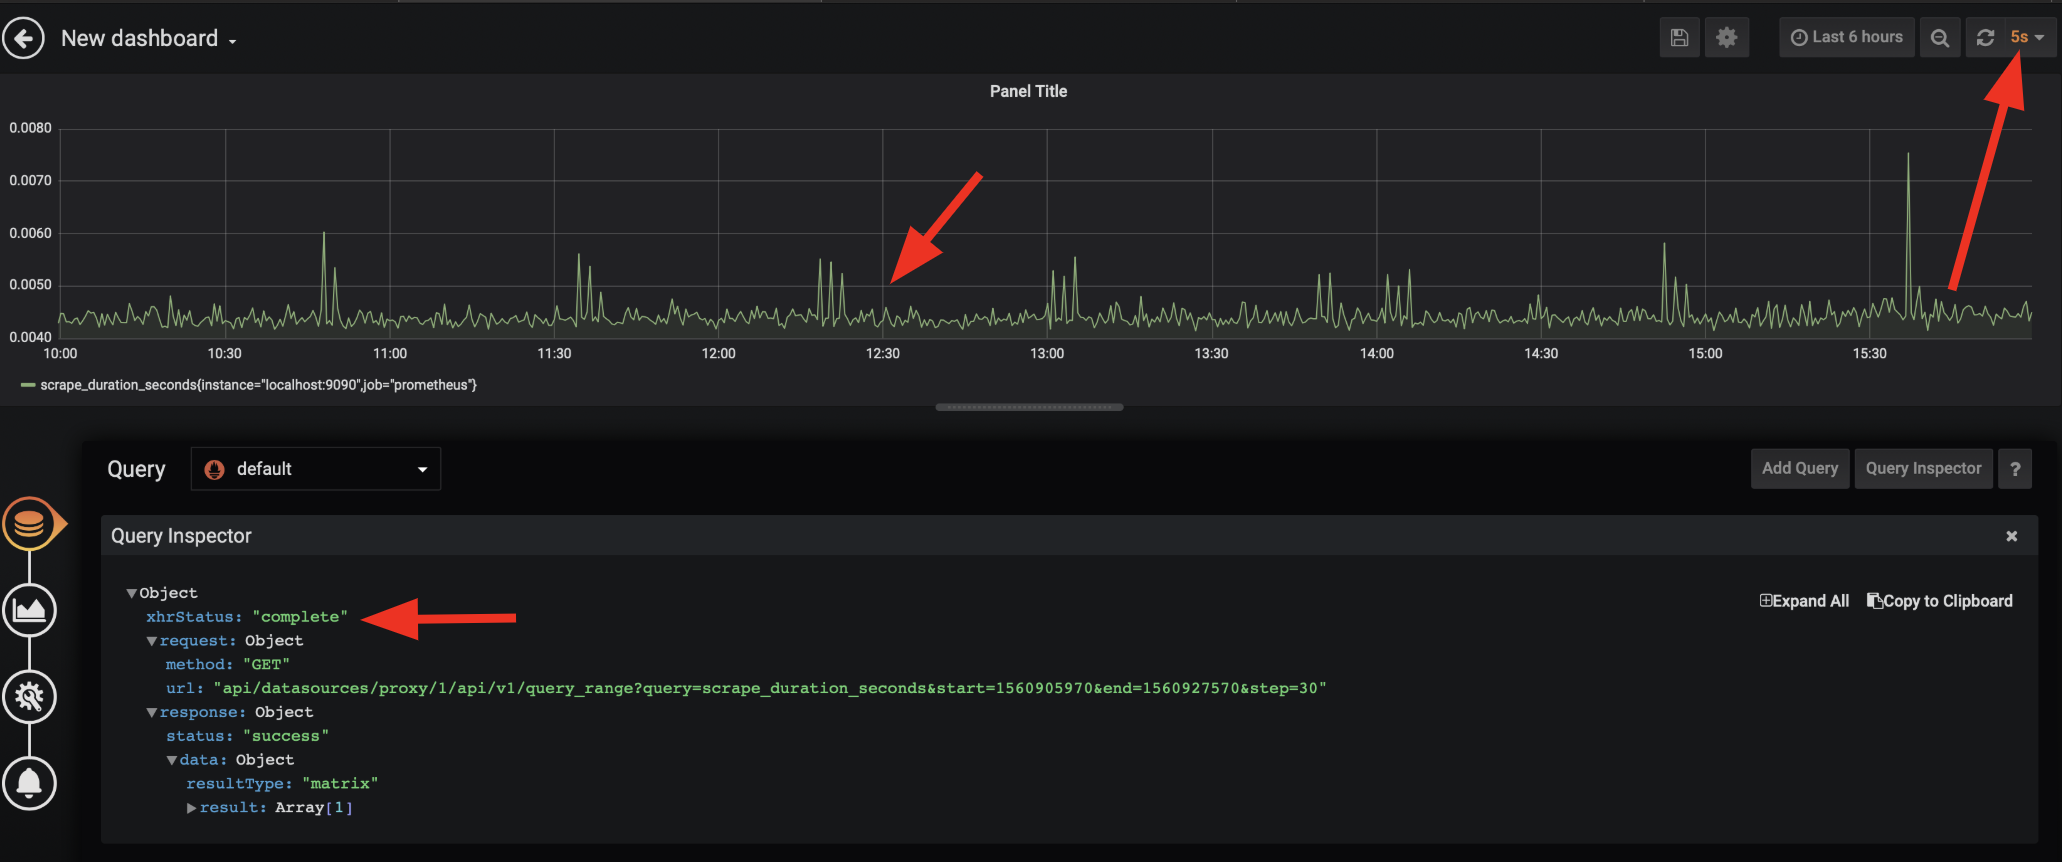
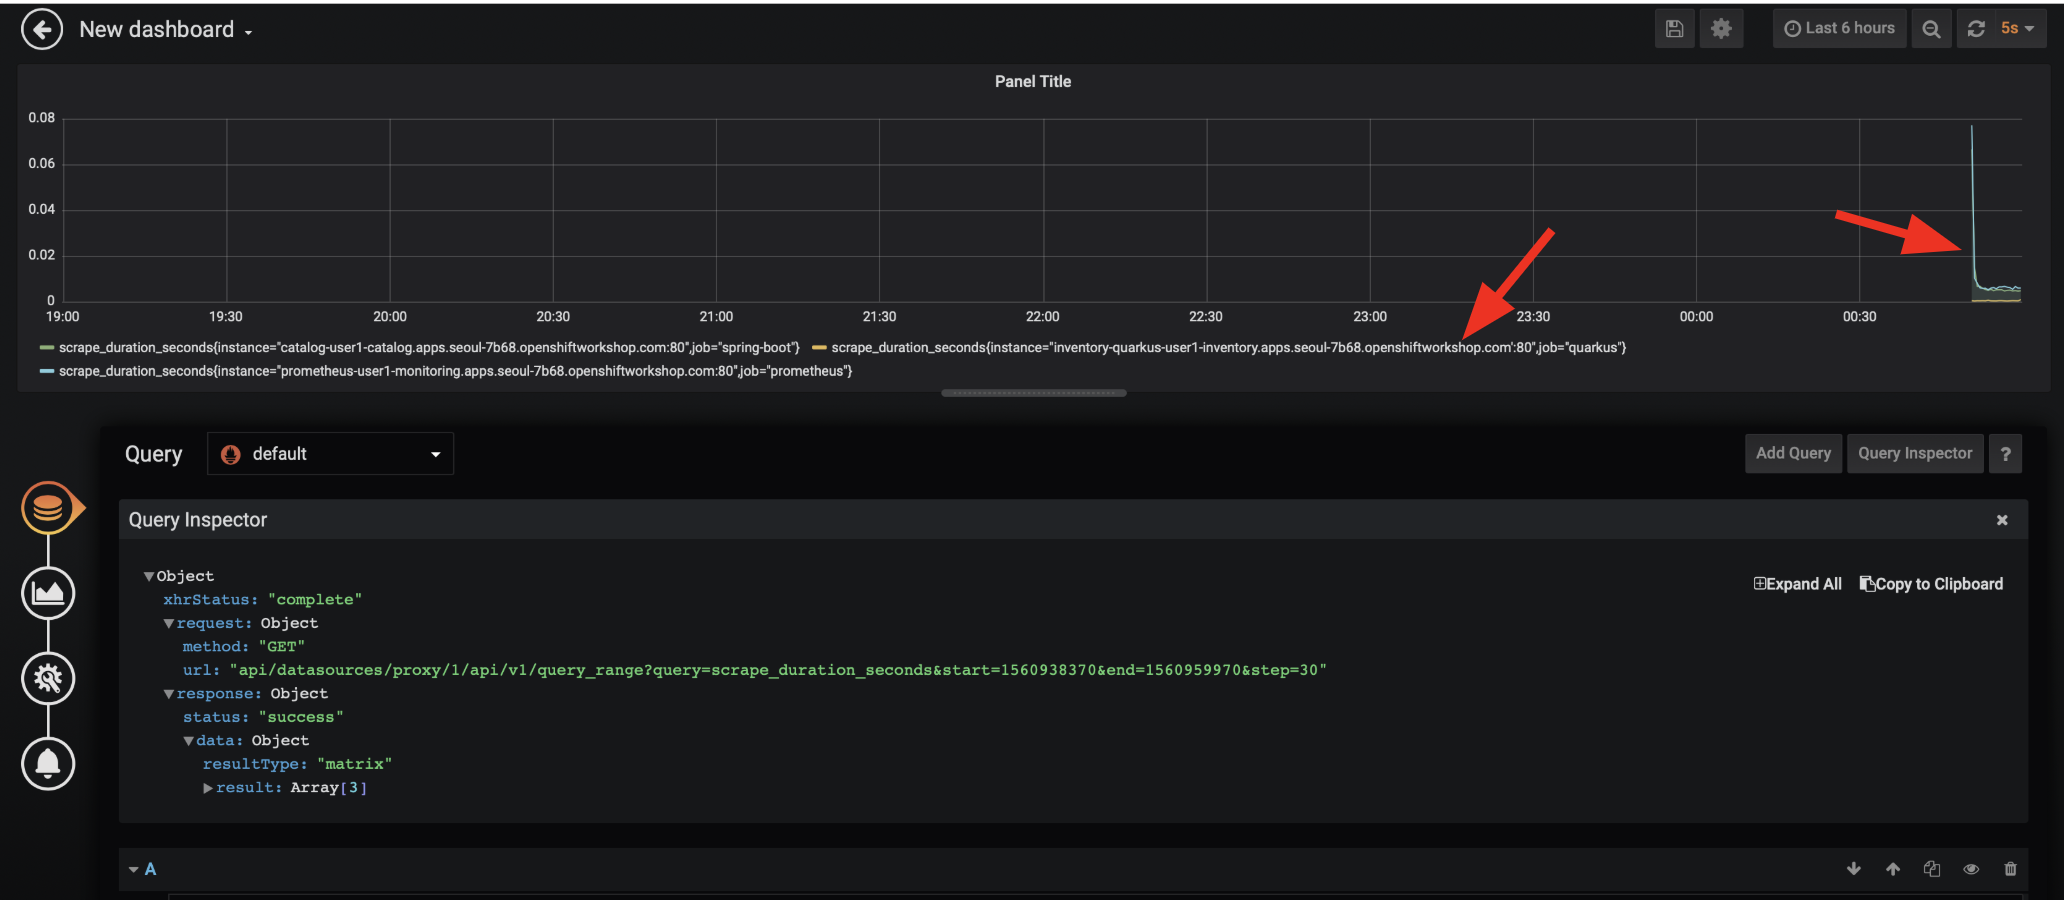
add springboot metrics

diff --git a/apps-monitoring.md b/apps-monitoring.md
@@ -347,11 +347,11 @@ Click on **Save & Test** then you will see the **Data source is working** messag
 
 ![Grafana]({% image_path granfan-setting.png %})
 
-###11. Utilize Metrics specification on Apps
+###11. Utilize metrics specification for Inverntory(Quarkus)
 
 ---
 
-In this lab, we will learn how **Inventory(Quarkus)** application can utilize the MicroProfile Metrics specification through the **SmallRye Metrics extension**.
+In this step, we will learn how **Inventory(Quarkus)** application can utilize the MicroProfile Metrics specification through the **SmallRye Metrics extension**.
 **MicroProfile Metrics** allows applications to gather various metrics and statistics that provide insights into what is happening inside the application.
 
 The metrics can be read remotely using JSON format or the **OpenMetrics** format, so that they can be processed by additional tools such as **Prometheus**, 
@@ -414,7 +414,6 @@ Repackage the inventory application via clicking on `Package for OpenShift` in `
 
 ![codeready-workspace-maven]({% image_path quarkus-dev-run-packageforOcp.png %})
 
-
 Or you can run a maven plugin command directly in **Terminal**:
 
 `mvn clean package -DskipTests`
@@ -431,15 +430,95 @@ Finally, make sure it's actually done rolling out:
 
 `oc rollout status -w dc/inventory-quarkus -n userxx-inventory`
 
+Go to the **USERXX CoolStore Inventory Microservice Application** project in OpenShift Web Console and then on the left sidebar, **Resources >> Config Maps**. 
+
+![prometheus]({% image_path prometheus-quarkus-configmap.png %})
+
+Click on **Create Config Maps** button to create a config map with the following info:
+
+ * Name: `prometheus-config`
+ * Key: `prometheus.yml`
+ * Value: *copy-paste the below content*
+
+> You need to replace **targets** URL align with the route URL in your environment.
+
+ ~~~yaml
+# my global config
+global:
+  scrape_interval:     15s # Set the scrape interval to every 15 seconds. Default is every 1 minute.
+  evaluation_interval: 15s # Evaluate rules every 15 seconds. The default is every 1 minute.
+  # scrape_timeout is set to the global default (10s).
+
+# Alertmanager configuration
+alerting:
+  alertmanagers:
+  - static_configs:
+    - targets:
+      # - alertmanager:9093
+
+# Load rules once and periodically evaluate them according to the global 'evaluation_interval'.
+rule_files:
+  # - "first_rules.yml"
+  # - "second_rules.yml"
+
+# A scrape configuration containing exactly one endpoint to scrape:
+# Here it's Prometheus itself.
+scrape_configs:
+  # The job name is added as a label `job=<job_name>` to any timeseries scraped from this config.
+  - job_name: 'prometheus'
+
+    # metrics_path defaults to '/metrics'
+    # scheme defaults to 'http'.
+
+    static_configs:
+    - targets: ['prometheus-userXX-monitoring.apps.seoul-7b68.openshiftworkshop.com']
+  
+  - job_name: 'quarkus'
+    metrics_path: '/metrics/application'
+
+    static_configs:
+    - targets:  [inventory-quarkus-userXX-inventory.apps.seoul-7b68.openshiftworkshop.com']
+ ~~~
+ 
+![prometheus]({% image_path prometheus-quarkus-configmap-detail.png %})
+
+Config maps hold key-value pairs and in the above command an **prometheus-config** config map 
+is created with **prometheus.yml** as the key and the above content as the value. Whenever a config map is injected into a container, 
+it would appear as a file with the same name as the key, at specified path on the filesystem.
+
+You can see the content of the config map in the OpenShift Web Console or by 
+using `oc describe cm prometheus-config -n userXX-monitoring` command via CodeReady Workspace **Terminal**.
+
+Modify the **Prometheus deployment config** so that it injects the **prometheus.yml** configuration you just created as 
+a config map into the Prometheus container. Go to **Application > Deployments** in **USERXX Coolstore App Monitoring Tools** project overview 
+and click on **prometheus** deployment:
+
+![prometheus]({% image_path prometheus-dc.png %})
+
+Move to **Configuration** tab menu and click on **Add Config Files**:
+
+![prometheus]({% image_path prometheus-configuration-tab.png %})
+
+Input the following variables in **Add Config Files to prometheus** and click on **Add**:
+
+ * Source: _prometheus-config_
+ * Mount Path: _/etc/prometheus_
+
+![prometheus]({% image_path prometheus-add-config.png %})
+
+You can also use **oc set volume** command for this:
+
+`oc set volume dc/prometheus --add --configmap-name=prometheus-config --mount-path=/etc/prometheus -n userxx-monitoring`
+
 ###13. Generate some values for the metrics
 
 ---
 
 Open a web browser to access the route URL(i.e. http://inventory-quarkus-user1-inventory.apps.seoul-7b68.openshiftworkshop.com/services/inventory) for invoking **getAll()** method in Inventory service. 
 
-Next, call **getAvailability(@PathParam String itemId)** method as well via the following **CURL** command:
+Next, call **getAvailability(@PathParam String itemId)** method as well via the following **CURL** command with your Inventory's route URL: 
 
-`for i in {1..50}; do curl http://inventory-quarkus-user1-inventory.apps.seoul-7b68.openshiftworkshop.com/services/inventory/329199 ; date ; sleep 1; done`
+`for i in {1..50}; do curl http://inventory-quarkus-userXX-inventory.apps.seoul-7b68.openshiftworkshop.com/services/inventory/329199 ; date ; sleep 1; done`
 
 Let's review the generated metrics. We have 3 ways to view the metircs such as **1)using CURL**, **2)using Prometheus Web UI**, and **3)using Grafana Dashboards**.
 
@@ -486,7 +565,8 @@ Let's review the generated metrics. We have 3 ways to view the metircs such as *
 }
 ~~~
 
-**2)** Open the Prometheus Web UI via a web brower and input(or select) `scrape_duration_seconds` in query box. Click on **Execute** then you will see the metrics:
+**2)** Open the Prometheus Web UI via a web brower and input(or select) `scrape_duration_seconds` in query box. 
+Click on **Execute** then you will see **quarkus job** in the metrics:
 
 ![metrics_prometheus]({% image_path prometheus-metrics-console.png %})
 
@@ -502,14 +582,183 @@ Click on **New dashboard** then select **Add Query** in a new panel:
 
 ![metrics_grafana]({% image_path grafana-add-query.png %}) 
 
-Add `scrape_duration_seconds` in query box:
+Add **scrape_duration_seconds** in query box:
 
 ![metrics_grafana]({% image_path grafana-add-query-detail.png %}) 
 
-Click on **Query Inspector** then you will see the metrics and change **5s** to refresh dashboard:
+Click on **Query Inspector** then you will see **inventory-quarkus metrics** and change **5s** to refresh dashboard:
 
 ![metrics_grafana]({% image_path grafana-add-query-complete.png %}) 
 
+###14. Utilize metrics specification for Catalog(Spring Boot)
+
+---
+
+In this step, we will learn how to export metrics to **Prometheus** from **Spring Boot** application by 
+using the [Prometheus JVM Client](https://github.com/prometheus/client_java).
+
+Go to **Inventory** project directory and open **pom.xml** to add the following **Prometheus dependencies**:
+
+~~~xml
+<!-- Prometheus dependency  -->
+<dependency>
+    <groupId>io.prometheus</groupId>
+    <artifactId>simpleclient_spring_boot</artifactId>
+    <version>0.6.0</version>
+</dependency>
+
+<dependency>
+    <groupId>io.prometheus</groupId>
+    <artifactId>simpleclient_hotspot</artifactId>
+    <version>0.6.0</version>
+</dependency>
+
+<dependency>
+    <groupId>io.prometheus</groupId>
+    <artifactId>simpleclient_servlet</artifactId>
+    <version>0.6.0</version>
+</dependency>
+~~~
+
+![metrics_grafana]({% image_path catalog-prometheus-dependency.png %}) 
+
+Next, create **MonitoringConfig.java** class in `src/main/java/com/redhat/coolstore/` and copy the following codes into **MonitoringConfig.java** file:
+
+~~~java
+package com.redhat.coolstore;
+
+import io.prometheus.client.exporter.MetricsServlet;
+import io.prometheus.client.hotspot.DefaultExports;
+import io.prometheus.client.spring.boot.SpringBootMetricsCollector;
+import org.springframework.boot.actuate.endpoint.PublicMetrics;
+import org.springframework.boot.web.servlet.ServletRegistrationBean;
+import org.springframework.context.annotation.Bean;
+import org.springframework.context.annotation.Configuration;
+
+import java.util.Collection;
+
+@Configuration
+class MonitoringConfig {
+
+    @Bean
+    SpringBootMetricsCollector springBootMetricsCollector(Collection<PublicMetrics> publicMetrics) {
+
+        SpringBootMetricsCollector springBootMetricsCollector = new SpringBootMetricsCollector(publicMetrics);
+        springBootMetricsCollector.register();
+
+        return springBootMetricsCollector;
+    }
+
+    @Bean
+    ServletRegistrationBean servletRegistrationBean() {
+        DefaultExports.initialize();
+        return new ServletRegistrationBean(new MetricsServlet(), "/prometheus");
+    }
+}
+~~~
+
+####15. Re-Build and Re-Deploy to OpenShift
+
+---
+
+Build and deploy the Catalog project using the following command, which will use the maven plugin to deploy via CodeReady Workspace **Terminal**:
+
+`mvn package fabric8:deploy -Popenshift -DskipTests`
+
+The build and deploy may take a minute or two. Wait for it to complete. You should see a **BUILD SUCCESS** at the
+end of the build output.
+
+After the maven build finishes it will take less than a minute for the application to become available.
+To verify that everything is started, run the following command and wait for it complete successfully:
+
+![catalog_deploy_success]({% image_path catalog_deploy_success.png %})
+
+You can also check if the deployment is complete via CodeReady Workspace **Terminal**:
+
+`oc rollout status -w dc/catalog -n userXX-catalog`
+
+Let's **collect metrics**. Open a web browser with the following URL after replacing with your **Catalog route URL**:
+
+`http://catalog-userXX-catalog.apps.seoul-7b68.openshiftworkshop.com/prometheus`
+
+You will see a similar output as here:
+~~~html
+# HELP jvm_gc_collection_seconds Time spent in a given JVM garbage collector in seconds.
+# TYPE jvm_gc_collection_seconds summary
+jvm_gc_collection_seconds_count{gc="PS Scavenge",} 52.0
+jvm_gc_collection_seconds_sum{gc="PS Scavenge",} 1.147
+jvm_gc_collection_seconds_count{gc="PS MarkSweep",} 2.0
+jvm_gc_collection_seconds_sum{gc="PS MarkSweep",} 0.504
+# HELP process_cpu_seconds_total Total user and system CPU time spent in seconds.
+# TYPE process_cpu_seconds_total counter
+process_cpu_seconds_total 26.38
+# HELP process_start_time_seconds Start time of the process since unix epoch in seconds.
+# TYPE process_start_time_seconds gauge
+process_start_time_seconds 1.560957605855E9
+# HELP process_open_fds Number of open file descriptors.
+# TYPE process_open_fds gauge
+process_open_fds 47.0
+# HELP process_max_fds Maximum number of open file descriptors.
+# TYPE process_max_fds gauge
+process_max_fds 1048576.0
+# HELP process_virtual_memory_bytes Virtual memory size in bytes.
+# TYPE process_virtual_memory_bytes gauge
+process_virtual_memory_bytes 4.748623872E9
+# HELP process_resident_memory_bytes Resident memory size in bytes.
+# TYPE process_resident_memory_bytes gauge
+process_resident_memory_bytes 2.91467264E8
+# HELP jvm_memory_pool_allocated_bytes_total Total bytes allocated in a given JVM memory pool. Only updated after GC, not continuously.
+# TYPE jvm_memory_pool_allocated_bytes_total counter
+jvm_memory_pool_allocated_bytes_total{pool="Code Cache",} 1.84624E7
+jvm_memory_pool_allocated_bytes_total{pool="PS Eden Space",} 2.070413312E9
+jvm_memory_pool_allocated_bytes_total{pool="PS Old Gen",} 4.1407848E7
+jvm_memory_pool_allocated_bytes_total{pool="PS Survivor Space",} 5595280.0
+jvm_memory_pool_allocated_bytes_total{pool="Compressed Class Space",} 7020064.0
+jvm_memory_pool_allocated_bytes_total{pool="Metaspace",} 5.8175456E7
+# HELP jvm_classes_loaded The number of classes that are currently loaded in the JVM
+# TYPE jvm_classes_loaded gauge
+jvm_classes_loaded 10770.0
+# HELP jvm_classes_loaded_total The total number of classes that have been loaded since the JVM has started execution
+# TYPE jvm_classes_loaded_total counter
+jvm_classes_loaded_total 10770.0
+...
+~~~
+
+####16. Add Catalog(Spring Boot) Job
+
+---
+
+Edit **prometheus-config** configmap in **USER XX CoolStore App Monitoring Tools** project with the following contents:
+
+~~~yaml
+  - job_name: 'spring-boot'
+    metrics_path: '/prometheus'
+
+    static_configs:
+    - targets:  ['catalog-userXX-catalog.apps.seoul-7b68.openshiftworkshop.com']
+~~~
+
+Click on "Save".
+
+![prometheus]({% image_path prometheus-quarkus-configmap-detail-sb.png %})
+
+####17. Observing metrics in Prometheus and Grafana
+
+---
+
+**1)** Open the Prometheus Web UI via a web brower and input(or select) `scrape_duration_seconds` in query box. 
+Click on **Execute** then you will see **quarkus job** in the metrics:
+
+![metrics_prometheus]({% image_path prometheus-metrics-console-final.png %})
+
+Switch to **Graph** tab:
+
+![metrics_prometheus]({% image_path prometheus-metrics-graph-final.png %})
+
+**2)** Open the Grafana Web UI via a web brower and click on **Query Inspector** then you will see 
+**inventory-quarkus** and **catalog-sprinb-boot** metrics:
+
+![metrics_grafana]({% image_path grafana-add-query-complete.png %}) 
 
 #### Summary
 
